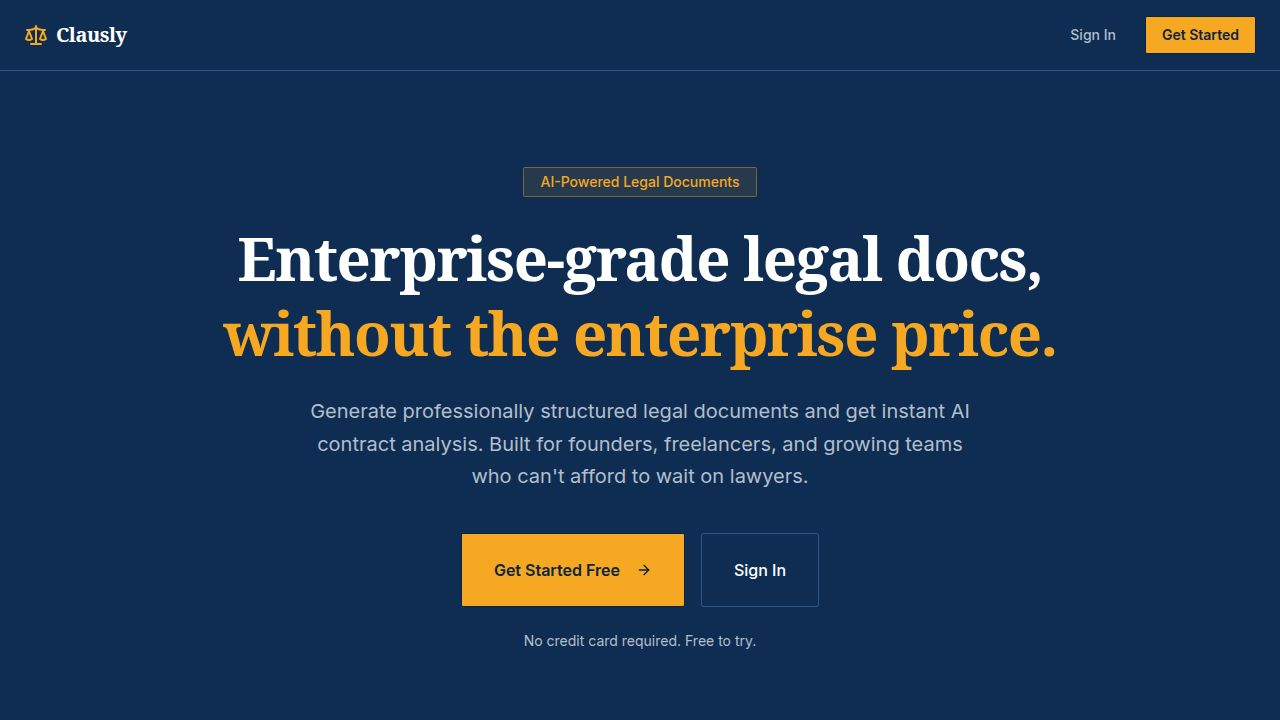
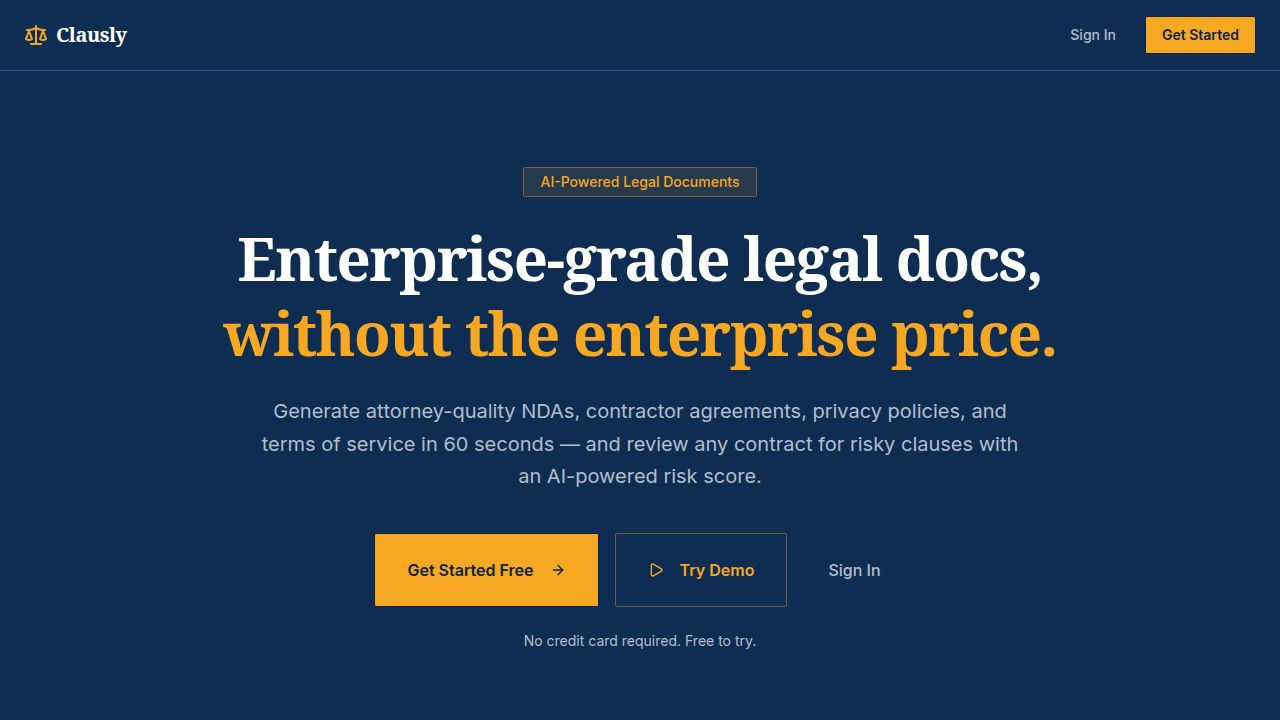
Enhance legal document platform with disclaimers and risk score improvements
Add legal disclaimer banners to landing, generation, and review pages. Update risk score display with improved typography, color-coding, and labels (e.g., "Moderate Risk"). Add an import for `AlertTriangle` to `GeneratePage.tsx`. Update the `RiskScore` component in `ReviewDetailPage.tsx` and `ReviewPage.tsx` to reflect changes in risk score display and labels.

Replit-Commit-Author: Agent
Replit-Commit-Session-Id: 84e92e0b-de8e-4991-850b-4f88e84ccb7f
Replit-Commit-Checkpoint-Type: full_checkpoint
Replit-Commit-Event-Id: b18e5910-901e-4e9a-b931-dd659170402d
Replit-Commit-Screenshot-Url: https://storage.googleapis.com/screenshot-production-us-central1/7d9d9b60-2cd4-4a5c-a1cb-939fa2bd12a8/84e92e0b-de8e-4991-850b-4f88e84ccb7f/ljClc2w
Replit-Helium-Checkpoint-Created: true

diff --git a/artifacts/clausly/src/pages/LandingPage.tsx b/artifacts/clausly/src/pages/LandingPage.tsx
@@ -1,5 +1,6 @@
+import { useState } from "react";
 import { Link } from "wouter";
-import { Scale, FileText, FileSearch, Shield, CheckCircle, ArrowRight, Zap, Lock, Globe } from "lucide-react";
+import { Scale, FileText, FileSearch, Shield, CheckCircle, ArrowRight, Zap, Lock, Globe, AlertTriangle, Play, X } from "lucide-react";
 import { Button } from "@/components/ui/button";
 import { Badge } from "@/components/ui/badge";
 
@@ -43,9 +44,140 @@ const DOCUMENT_TYPES = [
   { label: "Terms of Service", desc: "Define your product rules" },
 ];
 
+const SAMPLE_NDA = `NON-DISCLOSURE AGREEMENT
+
+This Non-Disclosure Agreement ("Agreement") is entered into as of May 2, 2026 (the "Effective Date"), by and between Horizon Technologies Inc., a Delaware corporation with its principal place of business at 1200 Innovation Drive, San Francisco, California 94105 ("Horizon"), and Apex Solutions LLC, a Texas limited liability company with its principal place of business at 450 Commerce Street, Suite 800, Austin, Texas 78701 ("Apex").
+
+RECITALS
+
+WHEREAS, Horizon and Apex (each a "Party" and collectively the "Parties") desire to explore a potential business relationship in connection with the development and integration of Horizon's proprietary AI-driven data analytics platform (the "Permitted Purpose");
+
+WHEREAS, in connection with the Permitted Purpose, each Party may disclose to the other certain confidential and proprietary information; and
+
+WHEREAS, the Parties desire to protect such confidential information on the terms set forth herein.
+
+NOW, THEREFORE, in consideration of the mutual covenants and agreements set forth below, and for other good and valuable consideration, the receipt and sufficiency of which are hereby acknowledged, the Parties agree as follows:
+
+1. DEFINITIONS
+
+"Confidential Information" means any and all written, oral, electronic, or tangible information disclosed by either Party (the "Disclosing Party") to the other Party (the "Receiving Party") in connection with the Permitted Purpose, including without limitation trade secrets, business plans, financial data, technical specifications, source code, customer lists, marketing strategies, and any other information that a reasonable person would consider confidential given the nature of the information and the circumstances of disclosure.
+
+"Representatives" means a Party's employees, directors, officers, attorneys, accountants, and advisors who have a legitimate need to know the Confidential Information and who are bound by obligations of confidentiality no less restrictive than those set forth in this Agreement.
+
+2. OBLIGATIONS OF CONFIDENTIALITY
+
+2.1 Each Receiving Party shall: (a) maintain all Confidential Information in strict confidence; (b) not disclose Confidential Information to any person or entity other than its Representatives; (c) use Confidential Information solely for the Permitted Purpose; (d) promptly notify the Disclosing Party upon discovering any unauthorized disclosure; and (e) protect Confidential Information using at least the same degree of care it uses to protect its own confidential information, but in no event less than reasonable care.
+
+3. EXCLUSIONS
+
+Confidential Information does not include information that: (a) is or becomes publicly available through no breach by the Receiving Party; (b) was known to the Receiving Party prior to disclosure, as evidenced in writing; (c) is independently developed by the Receiving Party without use of or reference to the Confidential Information; (d) is received from a third party under no obligation of confidentiality; or (e) is required to be disclosed by applicable law or court order, provided the Receiving Party gives prompt written notice and cooperates with the Disclosing Party's efforts to obtain a protective order.
+
+4. OWNERSHIP
+
+All Confidential Information remains the sole and exclusive property of the Disclosing Party. This Agreement grants no license, right, or interest in any patent, copyright, trademark, trade secret, or other intellectual property right of the Disclosing Party.
+
+5. RETURN OF CONFIDENTIAL INFORMATION
+
+Upon termination of this Agreement or written request by the Disclosing Party, the Receiving Party shall promptly (within ten (10) business days) return or certifiably destroy all Confidential Information and all copies, summaries, and extracts thereof, and provide written certification of destruction upon request.
+
+6. TERM AND TERMINATION
+
+This Agreement shall commence on the Effective Date and continue for a period of three (3) years, unless earlier terminated by either Party upon thirty (30) days' written notice. The confidentiality obligations set forth herein shall survive termination for a period of five (5) years.
+
+7. INDEMNIFICATION
+
+The breaching Party shall indemnify, defend, and hold harmless the non-breaching Party and its officers, directors, employees, and agents from and against all claims, damages, losses, liabilities, costs, and expenses (including reasonable attorneys' fees) arising from any breach of this Agreement.
+
+8. REMEDIES
+
+The Parties acknowledge that any breach of this Agreement would cause irreparable harm for which monetary damages would be an inadequate remedy. Accordingly, the Disclosing Party shall be entitled to seek specific performance and injunctive or other equitable relief, without the necessity of posting bond or proving actual damages, in addition to all other remedies available at law or in equity.
+
+9. DISPUTE RESOLUTION
+
+This Agreement shall be governed by the laws of the State of Delaware, without regard to its conflict of laws principles. The Parties shall first attempt to resolve any dispute through good-faith negotiation for a period of thirty (30) days before initiating any legal proceedings. Exclusive jurisdiction and venue shall be in the state and federal courts located in the State of Delaware.
+
+10. GENERAL
+
+(a) This Agreement may be amended only by a written instrument signed by both Parties. (b) Failure to enforce any provision shall not constitute a waiver. (c) This Agreement may be executed in counterparts; electronic signatures are valid. (d) If any provision is held unenforceable, the remaining provisions shall continue in full force. (e) Neither Party may assign this Agreement without the prior written consent of the other, except in connection with a merger or acquisition. (f) This Agreement constitutes the entire agreement between the Parties with respect to its subject matter and supersedes all prior agreements and understandings relating thereto.
+
+SIGNATURE BLOCK
+
+HORIZON TECHNOLOGIES INC.
+By: ________________________________
+Name: ________________________________
+Title: ________________________________
+Date: ________________________________
+
+APEX SOLUTIONS LLC
+By: ________________________________
+Name: ________________________________
+Title: ________________________________
+Date: ________________________________`;
+
+function DisclaimerBanner() {
+  return (
+    <div className="flex items-start gap-3 rounded-sm border border-amber-500/30 bg-amber-500/8 px-4 py-3">
+      <AlertTriangle className="h-4 w-4 text-amber-400 flex-shrink-0 mt-0.5" />
+      <p className="text-xs text-amber-200/80 leading-relaxed">
+        <span className="font-semibold text-amber-300">Legal Disclaimer: </span>
+        Clausly generates documents for informational purposes only. Nothing on this platform constitutes legal advice or creates an attorney-client relationship. Always consult a licensed attorney before executing any legal document.
+      </p>
+    </div>
+  );
+}
+
+function DemoModal({ onClose }: { onClose: () => void }) {
+  return (
+    <div className="fixed inset-0 z-50 flex items-center justify-center p-4" onClick={onClose}>
+      <div className="absolute inset-0 bg-black/70 backdrop-blur-sm" />
+      <div
+        className="relative z-10 bg-card border border-border rounded-sm w-full max-w-3xl max-h-[85vh] flex flex-col shadow-2xl"
+        onClick={(e) => e.stopPropagation()}
+      >
+        <div className="flex items-start justify-between p-5 border-b border-border flex-shrink-0">
+          <div>
+            <div className="flex items-center gap-2 mb-1">
+              <FileText className="h-5 w-5 text-primary" />
+              <h2 className="text-white font-serif font-bold text-lg">Sample NDA — Horizon Technologies Inc. & Apex Solutions LLC</h2>
+            </div>
+            <div className="flex items-center gap-2">
+              <Badge className="bg-primary/20 text-primary border-primary/30 text-xs">Sample Document</Badge>
+              <p className="text-xs text-muted-foreground">Sign up to generate your own with your actual party names and terms.</p>
+            </div>
+          </div>
+          <button
+            onClick={onClose}
+            className="text-muted-foreground hover:text-white transition-colors ml-4 flex-shrink-0"
+          >
+            <X className="h-5 w-5" />
+          </button>
+        </div>
+
+        <div className="overflow-y-auto flex-1 p-6">
+          <pre className="whitespace-pre-wrap font-serif text-sm text-white/90 leading-relaxed">{SAMPLE_NDA}</pre>
+        </div>
+
+        <div className="p-4 border-t border-border flex-shrink-0 flex items-center justify-between gap-4 bg-card/80">
+          <p className="text-xs text-muted-foreground">This is a pre-generated sample for demonstration purposes only.</p>
+          <Link href="/sign-up">
+            <Button size="sm" className="bg-primary text-primary-foreground hover:bg-primary/90 font-semibold">
+              Generate Your Own
+              <ArrowRight className="ml-2 h-4 w-4" />
+            </Button>
+          </Link>
+        </div>
+      </div>
+    </div>
+  );
+}
+
 export default function LandingPage() {
+  const [showDemo, setShowDemo] = useState(false);
+
   return (
     <div className="min-h-screen bg-background text-foreground">
+      {showDemo && <DemoModal onClose={() => setShowDemo(false)} />}
+
       {/* Nav */}
       <nav className="border-b border-border px-6 py-4 flex items-center justify-between max-w-7xl mx-auto">
         <div className="flex items-center gap-2">
@@ -72,9 +204,8 @@ export default function LandingPage() {
           <br />
           <span className="text-primary">without the enterprise price.</span>
         </h1>
-        <p className="text-xl text-muted-foreground max-w-2xl mx-auto mb-10 leading-relaxed">
-          Generate professionally structured legal documents and get instant AI contract analysis. 
-          Built for founders, freelancers, and growing teams who can't afford to wait on lawyers.
+        <p className="text-xl text-muted-foreground max-w-3xl mx-auto mb-10 leading-relaxed">
+          Generate attorney-quality NDAs, contractor agreements, privacy policies, and terms of service in 60 seconds — and review any contract for risky clauses with an AI-powered risk score.
         </p>
         <div className="flex flex-col sm:flex-row gap-4 justify-center items-center">
           <Link href="/sign-up">
@@ -83,8 +214,17 @@ export default function LandingPage() {
               <ArrowRight className="ml-2 h-5 w-5" />
             </Button>
           </Link>
+          <Button
+            size="lg"
+            variant="outline"
+            className="border-primary/40 text-primary hover:bg-primary/10 text-base px-8 py-6 h-auto font-semibold"
+            onClick={() => setShowDemo(true)}
+          >
+            <Play className="mr-2 h-5 w-5" />
+            Try Demo
+          </Button>
           <Link href="/sign-in">
-            <Button size="lg" variant="outline" className="border-border text-white hover:bg-secondary text-base px-8 py-6 h-auto">
+            <Button size="lg" variant="ghost" className="text-muted-foreground hover:text-white text-base px-6 py-6 h-auto">
               Sign In
             </Button>
           </Link>
@@ -134,12 +274,30 @@ export default function LandingPage() {
         <div className="max-w-3xl mx-auto px-6 text-center">
           <h2 className="text-3xl md:text-4xl font-serif font-bold text-white mb-4">Ready to protect your business?</h2>
           <p className="text-muted-foreground text-lg mb-8">Start generating documents and reviewing contracts today.</p>
-          <Link href="/sign-up">
-            <Button size="lg" className="bg-primary text-primary-foreground hover:bg-primary/90 font-semibold text-base px-10 py-6 h-auto">
-              Get Started Free
-              <ArrowRight className="ml-2 h-5 w-5" />
+          <div className="flex flex-col sm:flex-row gap-4 justify-center items-center">
+            <Link href="/sign-up">
+              <Button size="lg" className="bg-primary text-primary-foreground hover:bg-primary/90 font-semibold text-base px-10 py-6 h-auto">
+                Get Started Free
+                <ArrowRight className="ml-2 h-5 w-5" />
+              </Button>
+            </Link>
+            <Button
+              size="lg"
+              variant="outline"
+              className="border-primary/40 text-primary hover:bg-primary/10 text-base px-8 py-6 h-auto font-semibold"
+              onClick={() => setShowDemo(true)}
+            >
+              <Play className="mr-2 h-5 w-5" />
+              Try Demo
             </Button>
-          </Link>
+          </div>
+        </div>
+      </section>
+
+      {/* Legal Disclaimer */}
+      <section className="border-t border-border py-8 px-6 bg-background">
+        <div className="max-w-7xl mx-auto">
+          <DisclaimerBanner />
         </div>
       </section>
 
@@ -150,9 +308,7 @@ export default function LandingPage() {
             <Scale className="h-5 w-5 text-primary" />
             <span className="font-serif font-bold text-white">Clausly</span>
           </div>
-          <p className="text-xs text-muted-foreground">
-            For informational purposes only. Not a substitute for legal advice from a licensed attorney.
-          </p>
+          <p className="text-xs text-muted-foreground">© {new Date().getFullYear()} Clausly. For informational purposes only.</p>
         </div>
       </footer>
     </div>

diff --git a/artifacts/clausly/src/pages/ReviewPage.tsx b/artifacts/clausly/src/pages/ReviewPage.tsx
@@ -2,6 +2,7 @@ import { useState, useRef } from "react";
 import { useQueryClient } from "@tanstack/react-query";
 import { useCreateReview, getListReviewsQueryKey } from "@workspace/api-client-react";
 import { FileSearch, AlertTriangle, CheckCircle, Loader2, ChevronDown, ChevronUp, Upload, X, FileText } from "lucide-react";
+
 import { Card, CardContent, CardHeader, CardTitle, CardDescription } from "@/components/ui/card";
 import { Button } from "@/components/ui/button";
 import { Input } from "@/components/ui/input";
@@ -20,13 +21,13 @@ interface RiskyClause {
 function RiskScore({ score }: { score: number }) {
   const color = score <= 3 ? "text-green-400" : score <= 6 ? "text-yellow-400" : "text-red-400";
   const bgColor = score <= 3 ? "bg-green-400/10 border-green-400/20" : score <= 6 ? "bg-yellow-400/10 border-yellow-400/20" : "bg-red-400/10 border-red-400/20";
-  const label = score <= 3 ? "Low Risk" : score <= 6 ? "Medium Risk" : "High Risk";
+  const label = score <= 3 ? "Low Risk" : score <= 6 ? "Moderate Risk" : "High Risk";
 
   return (
     <div className={`flex flex-col items-center justify-center p-8 rounded-sm border ${bgColor}`}>
-      <div className={`text-7xl font-bold font-serif ${color}`}>{score}</div>
-      <div className="text-muted-foreground text-sm mt-1">out of 10</div>
-      <div className={`text-lg font-semibold mt-3 ${color}`}>{label}</div>
+      <div className={`font-bold font-serif leading-none ${color}`} style={{ fontSize: "4rem" }}>{score}</div>
+      <div className="text-muted-foreground text-sm mt-2">out of 10</div>
+      <div className={`text-lg font-bold mt-3 tracking-wide uppercase text-sm ${color}`}>{label}</div>
     </div>
   );
 }
@@ -207,6 +208,14 @@ export default function ReviewPage() {
       <div>
         <h1 className="text-2xl font-serif font-bold text-white">Review a Contract</h1>
         <p className="text-muted-foreground mt-1">Upload a PDF or DOCX file, or paste your contract text, and get instant AI-powered risk analysis.</p>
+      </div>
+
+      <div className="flex items-start gap-3 rounded-sm border border-amber-500/30 bg-amber-500/8 px-4 py-3">
+        <AlertTriangle className="h-4 w-4 text-amber-400 flex-shrink-0 mt-0.5" />
+        <p className="text-xs text-amber-200/80 leading-relaxed">
+          <span className="font-semibold text-amber-300">Legal Disclaimer: </span>
+          Clausly generates documents for informational purposes only. Nothing on this platform constitutes legal advice or creates an attorney-client relationship. Always consult a licensed attorney before executing any legal document.
+        </p>
       </div>
 
       {!result ? (

diff --git a/artifacts/clausly/src/pages/GeneratePage.tsx b/artifacts/clausly/src/pages/GeneratePage.tsx
@@ -2,7 +2,7 @@ import { useState } from "react";
 import { useQueryClient } from "@tanstack/react-query";
 import { useAuth } from "@clerk/react";
 import { useCreateDocument, getListDocumentsQueryKey } from "@workspace/api-client-react";
-import { FileText, Copy, Download, CheckCircle, FileType, Loader2 } from "lucide-react";
+import { FileText, Copy, Download, CheckCircle, FileType, Loader2, AlertTriangle } from "lucide-react";
 import { Card, CardContent, CardHeader, CardTitle, CardDescription } from "@/components/ui/card";
 import { Button } from "@/components/ui/button";
 import { Input } from "@/components/ui/input";
@@ -165,6 +165,14 @@ export default function GeneratePage() {
       <div>
         <h1 className="text-2xl font-serif font-bold text-white">Generate a Legal Document</h1>
         <p className="text-muted-foreground mt-1">Fill in the details below and let AI draft your document.</p>
+      </div>
+
+      <div className="flex items-start gap-3 rounded-sm border border-amber-500/30 bg-amber-500/8 px-4 py-3">
+        <AlertTriangle className="h-4 w-4 text-amber-400 flex-shrink-0 mt-0.5" />
+        <p className="text-xs text-amber-200/80 leading-relaxed">
+          <span className="font-semibold text-amber-300">Legal Disclaimer: </span>
+          Clausly generates documents for informational purposes only. Nothing on this platform constitutes legal advice or creates an attorney-client relationship. Always consult a licensed attorney before executing any legal document.
+        </p>
       </div>
 
       {!generatedDoc ? (

diff --git a/artifacts/clausly/src/pages/ReviewDetailPage.tsx b/artifacts/clausly/src/pages/ReviewDetailPage.tsx
@@ -17,12 +17,12 @@ interface RiskyClause {
 function RiskScore({ score }: { score: number }) {
   const color = score <= 3 ? "text-green-400" : score <= 6 ? "text-yellow-400" : "text-red-400";
   const bgColor = score <= 3 ? "bg-green-400/10 border-green-400/20" : score <= 6 ? "bg-yellow-400/10 border-yellow-400/20" : "bg-red-400/10 border-red-400/20";
-  const label = score <= 3 ? "Low Risk" : score <= 6 ? "Medium Risk" : "High Risk";
+  const label = score <= 3 ? "Low Risk" : score <= 6 ? "Moderate Risk" : "High Risk";
   return (
-    <div className={`flex flex-col items-center justify-center p-6 rounded-sm border ${bgColor}`}>
-      <div className={`text-6xl font-bold font-serif ${color}`}>{score}</div>
-      <div className="text-muted-foreground text-xs mt-1">out of 10</div>
-      <div className={`text-base font-semibold mt-2 ${color}`}>{label}</div>
+    <div className={`flex flex-col items-center justify-center p-8 rounded-sm border ${bgColor}`}>
+      <div className={`font-bold font-serif leading-none ${color}`} style={{ fontSize: "4rem" }}>{score}</div>
+      <div className="text-muted-foreground text-sm mt-2">out of 10</div>
+      <div className={`font-bold mt-3 tracking-wide uppercase text-sm ${color}`}>{label}</div>
     </div>
   );
 }